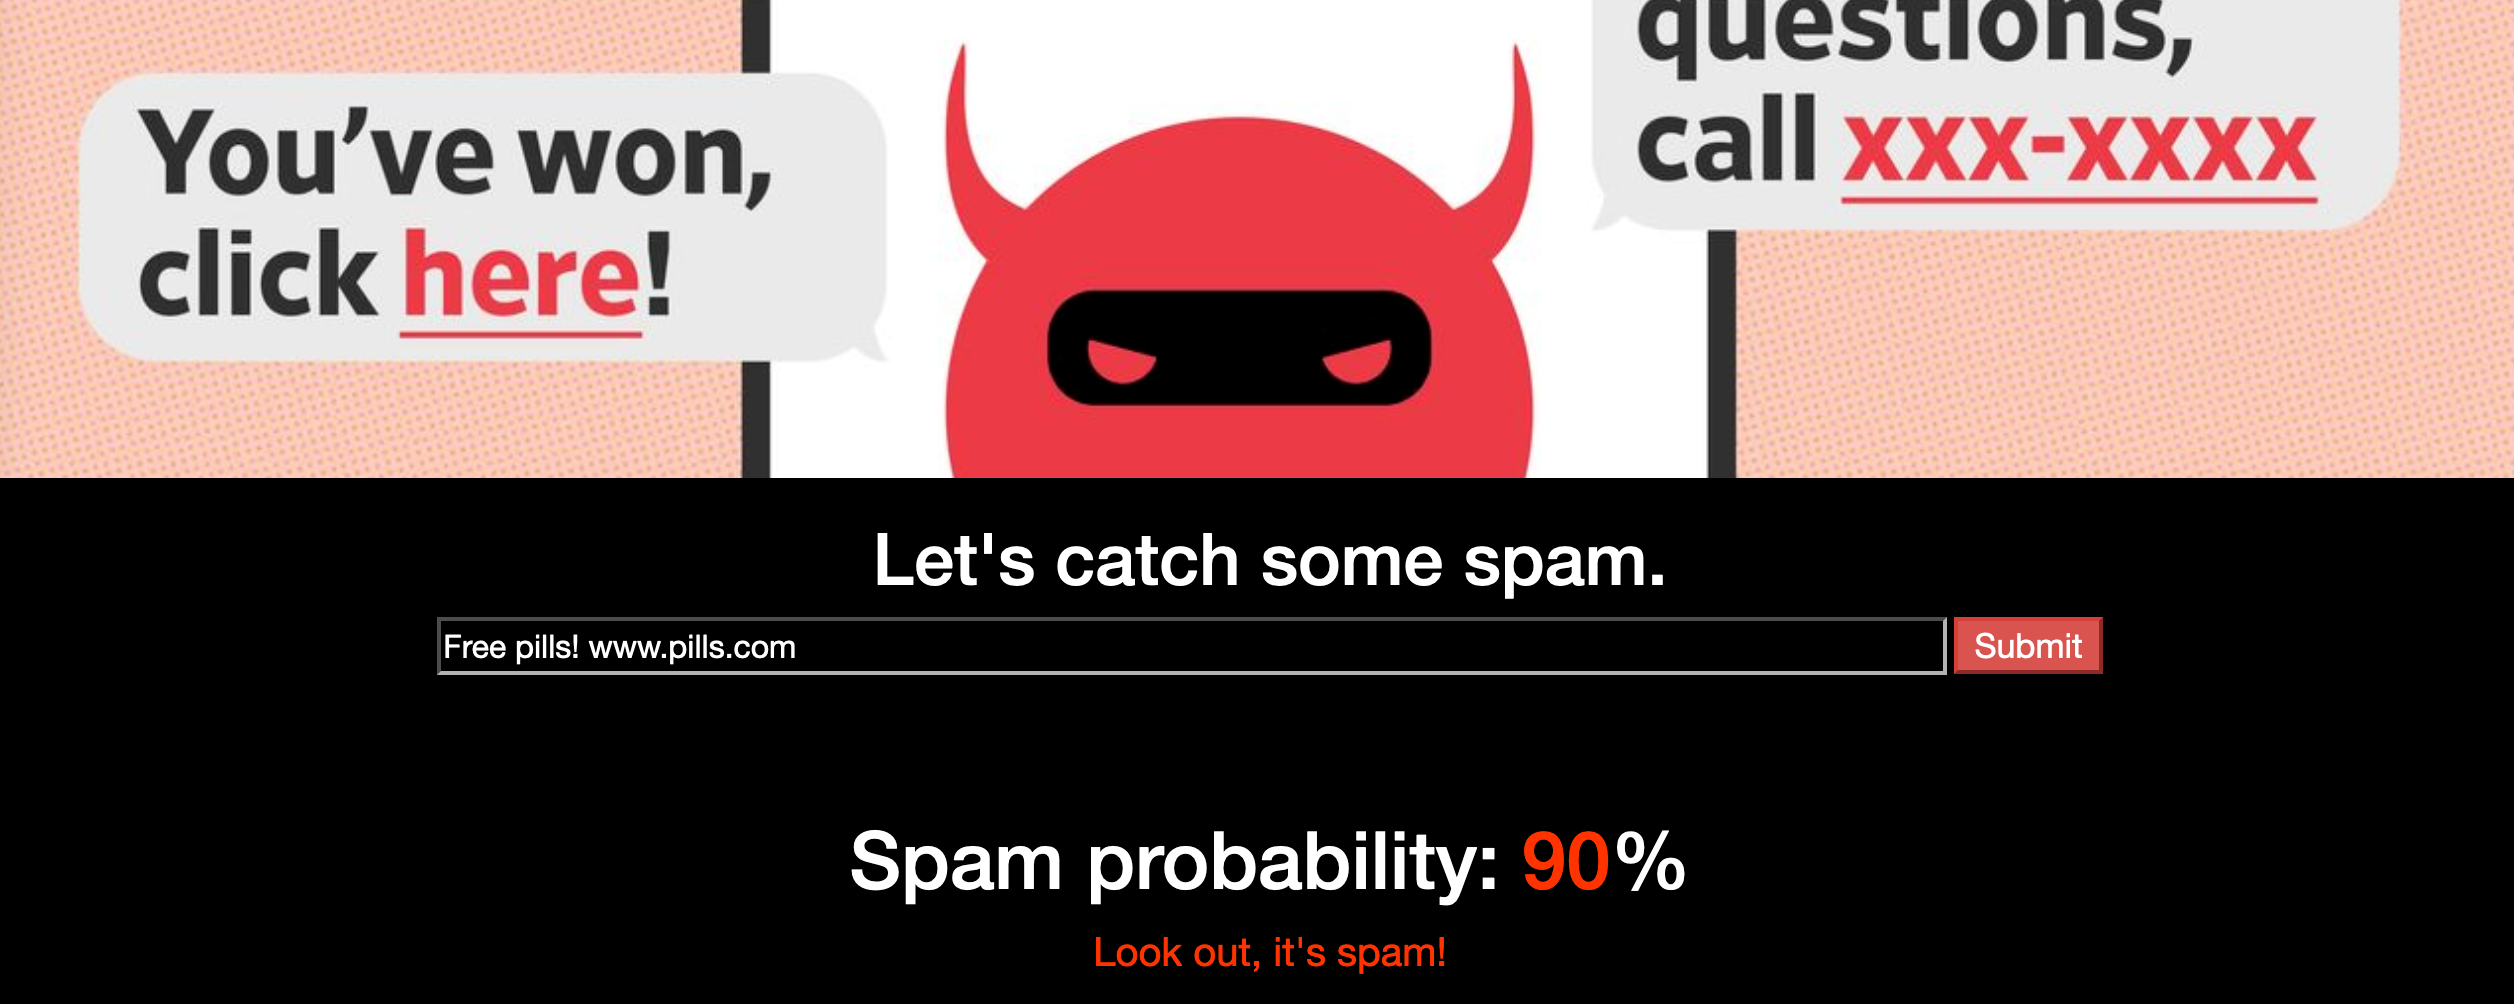
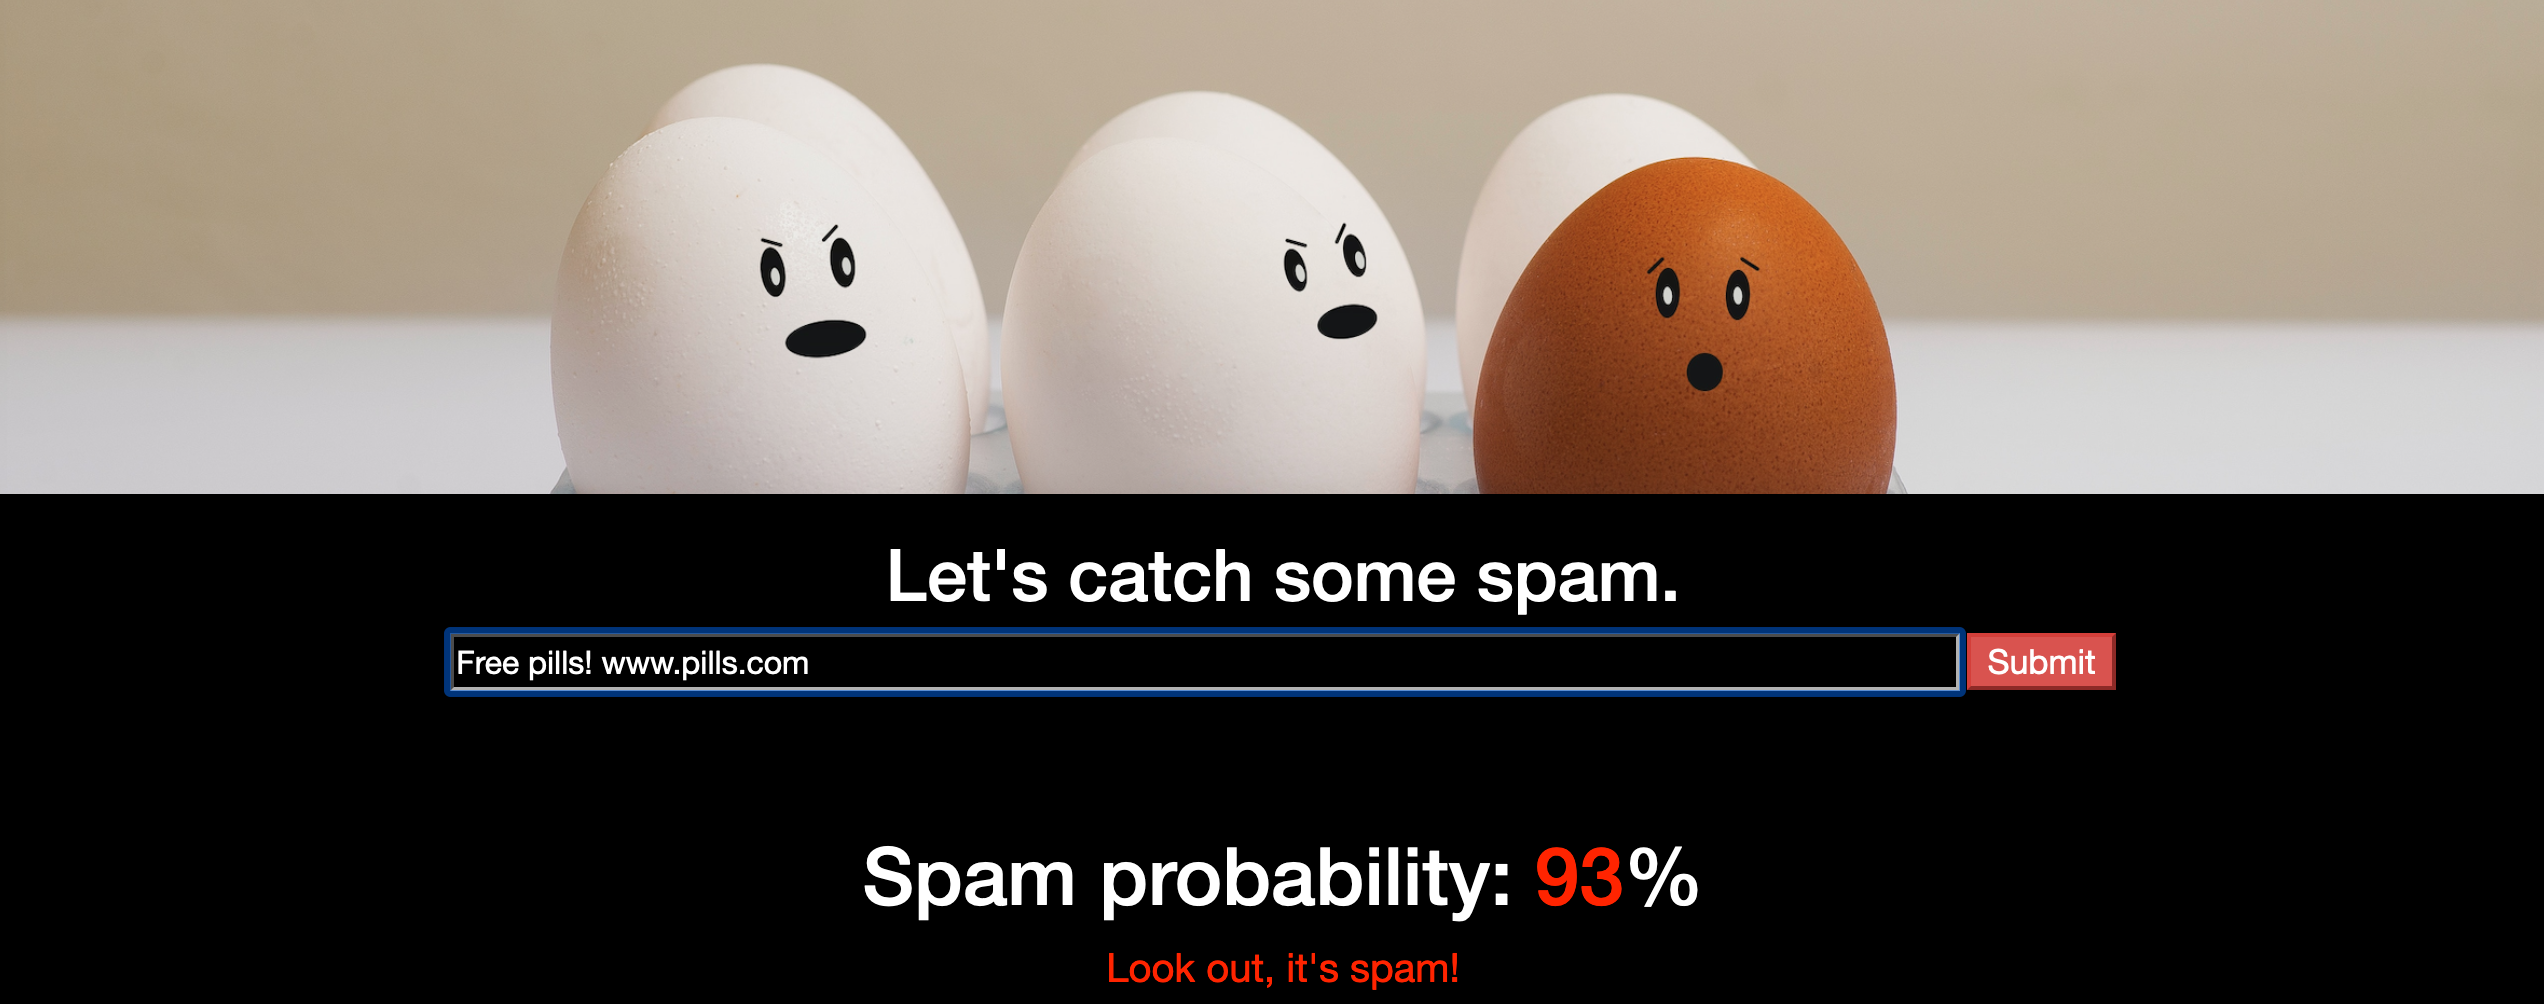
Change background image

diff --git a/templates/about.html b/templates/about.html
@@ -3,6 +3,7 @@
 <head>
     <meta charset="UTF-8">
     <title>SpamCatch: About</title>
+    <link rel="shortcut icon" type="image/png" href="../static/images/ds_circle.png">
     <link rel="stylesheet" href="https://maxcdn.bootstrapcdn.com/bootstrap/3.3.7/css/bootstrap.min.css">
     <link rel="stylesheet" href="../static/css/reset.css">
     <link rel="stylesheet" href="../static/css/styles.css">
@@ -18,7 +19,8 @@ The back-end consists of a random forest model trained on the open-source
 the author's received...) that has been processed with sklearn's TfIdfVectorizer. Check out the source code <a href="https://github.com/mgsosna/spamCatch">here</a>.
 </p>
 
-<p style="font-size: 14px; margin: 50px">Image credit: <a href="https://www.wsj.com/articles/getting-attacked-by-robotexts-heres-what-to-do-11566385200">Wall Street Journal</a>
+<p style="font-size: 14px; margin: 50px">Image credit:
+    <a href="https://www.pexels.com/photo/eggs-in-tray-on-white-surface-1556707/">Daniel Reche</a>
 </p>
 </html>
 

diff --git a/static/css/styles.css b/static/css/styles.css
@@ -1,13 +1,12 @@
 .hero {
     position: relative;
-    height: 240px;
+    height: 250px;
     padding: 1px;
     margin-top: -2px;
     margin-left: -10px;
     background: black;
         background-attachment: scroll;
-        /* image source: https://www.wsj.com/articles/getting-attacked-by-robotexts-heres-what-to-do-11566385200 */
-        background-image: url("../images/spam.png");
+        background-image: url("../images/eggs.png");
         background-size: auto;
         background-size: cover;
 }
